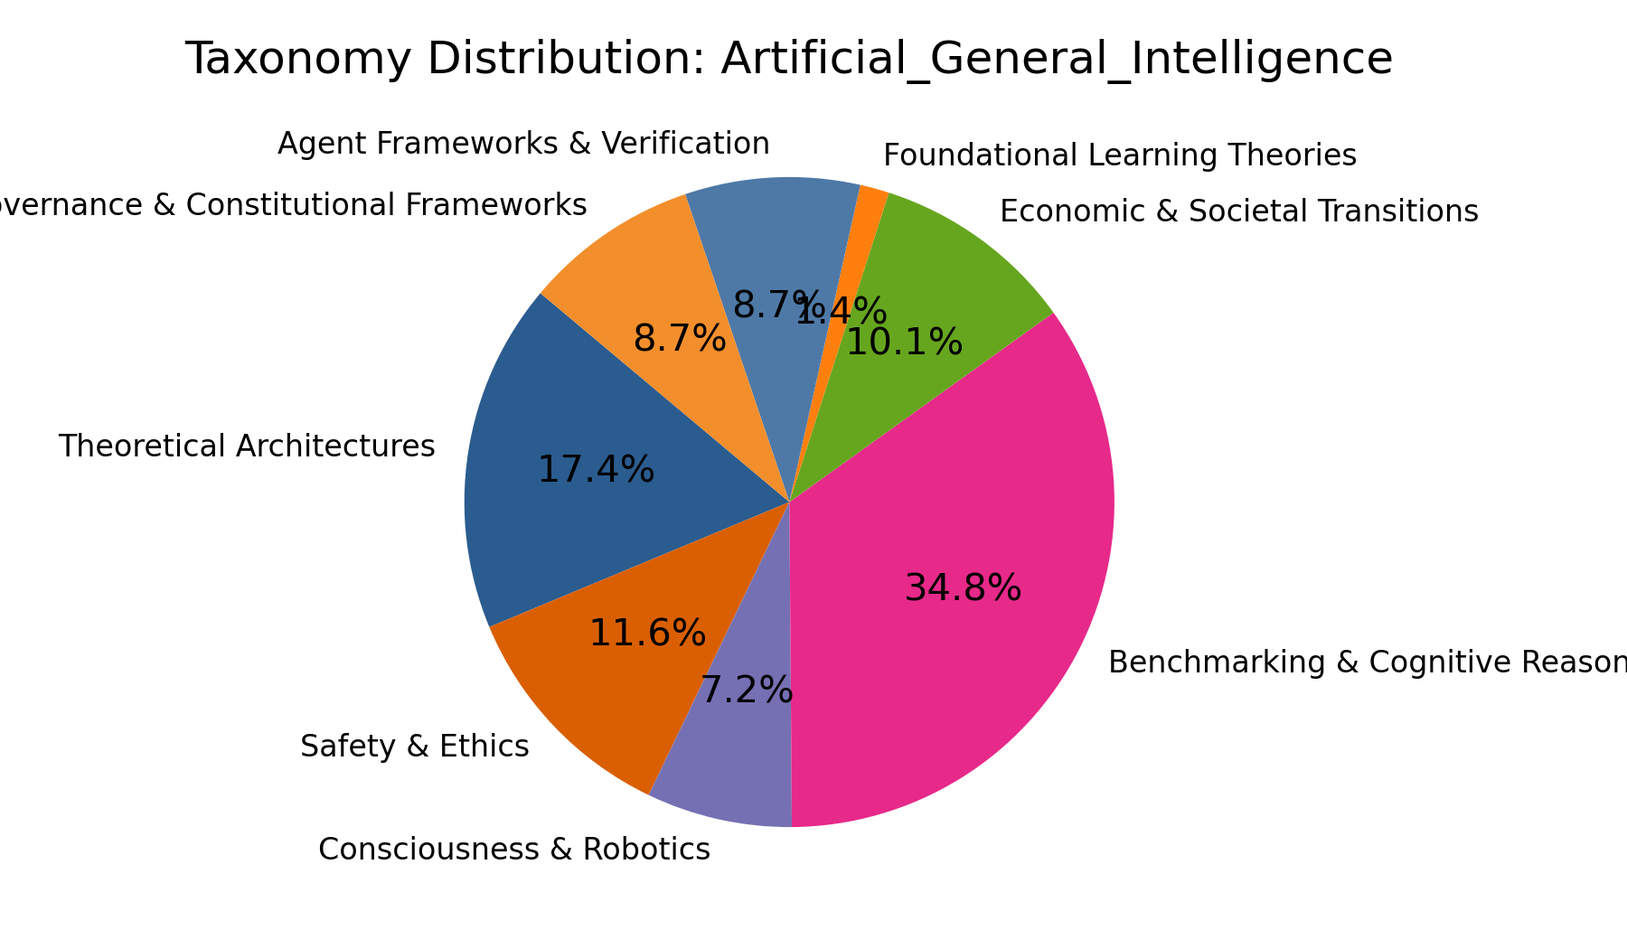
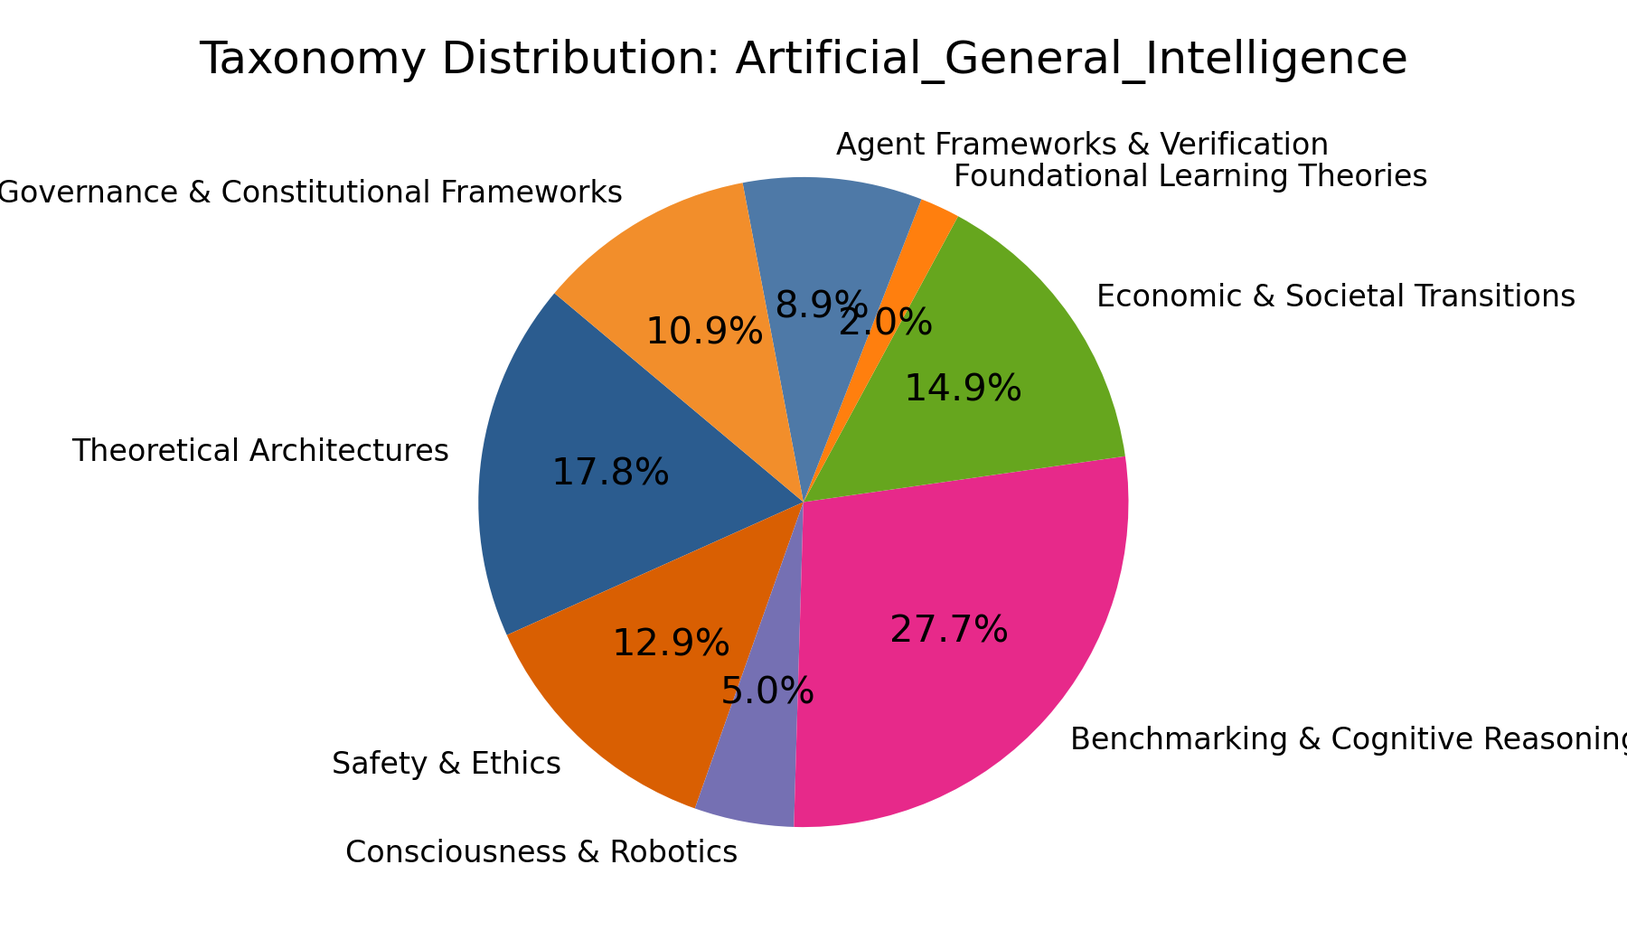
feat(artificial_general_intelligence): integrated valid papers (LSS: 89.02)

diff --git a/surveys/artificial_general_intelligence/generate_figures.py b/surveys/artificial_general_intelligence/generate_figures.py
@@ -11,8 +11,8 @@ plt.rcParams.update({'font.size': 10, 'axes.labelsize': 11, 'axes.titlesize': 12
 
 SURVEY_TITLE = "Artificial_General_Intelligence"
 # [AI AGENT ZONE] Edit only these dictionaries
-TIMELINE_DATA = {"2022": 1, "2023": 2, "2024": 2, "2025": 0, "2026": 64}
-TAXONOMY_DATA = {"Theoretical Architectures": 12, "Safety & Ethics": 8, "Consciousness & Robotics": 5, "Benchmarking & Cognitive Reasoning": 24, "Economic & Societal Transitions": 7, "Foundational Learning Theories": 1, "Agent Frameworks & Verification": 6, "Governance & Constitutional Frameworks": 6}
+TIMELINE_DATA = {"2022": 1, "2023": 2, "2024": 2, "2025": 0, "2026": 96}
+TAXONOMY_DATA = {"Theoretical Architectures": 18, "Safety & Ethics": 13, "Consciousness & Robotics": 5, "Benchmarking & Cognitive Reasoning": 28, "Economic & Societal Transitions": 15, "Foundational Learning Theories": 2, "Agent Frameworks & Verification": 9, "Governance & Constitutional Frameworks": 11}
 
 def plot_publication_timeline():
     years, counts = list(TIMELINE_DATA.keys()), list(TIMELINE_DATA.values())

diff --git a/surveys/artificial_general_intelligence/artificial_general_intelligence.md b/surveys/artificial_general_intelligence/artificial_general_intelligence.md
@@ -14,6 +14,8 @@ Li et al. (2026) introduce adaptive entangled game modules based on a probabilit
 
 Bakshi (2026) argues that general intelligence requires structural constraints across multiple non-reducible levels of description, asserting that scaling alone cannot yield AGI without addressing these distinct architectural layers[^2607.18943]. Overmann (2026) introduces a computational theory of mind based on set theory and hyperdimensional computing, proposing that sparse binary data and subset pattern matching serve as the fundamental engine of cognition, bridging perceptual data and symbols without continuous bottlenecks[^2606.31819]. Majkic (2026) expands neuro-symbolic AGI architectures by integrating probabilistic computation into Belnap's Typed Intensional FOL, enabling neural networks to compute probability densities for unknown sentences while preserving logical deduction[^2607.13073]. Mugica Negueruela (2026) presents Oscurus, a dual-process neuro-symbolic architecture that leverages hyperdimensional computing for zero-token program synthesis, invoking generative models only when epistemic uncertainty exceeds a certainty threshold[^10.5281_zenodo.22848850].
 
+Recent explorations into architectural foundations emphasize structural cycles and memory integration. Ushakov and Berdinsk (2026) propose a closed reentry loop architecture that mathematically guarantees self-model emergence and unprogrammed goal-directed behavior, positioning it as a topologically protected, safe-by-design approach to AGI[^2606.26406]. Park (2026) argues that integrating explicit memory is the cornerstone for advancing LLMs toward AGI, as higher-order cognitive functions rely on hippocampal-like explicit memory rather than implicit statistical learning alone[^2606.11245]. Mikeda and Goertzel (2026) adapt motivational architectures for conversational agents, recasting homeostasis into dialogue-native terms to regulate competence and affiliation, providing a scaffold for human-level conversational AGI[^2606.05411]. Zhang (2026) introduces τ-TCPN, an agent-based framework where causal topology grows and prunes under axiomatic constraints, suggesting that useful inductive biases for AGI-scale systems may be reverse-extracted from repeated emergence patterns[^10.5281_zenodo.22847280]. Mugica Negueruela (2026) presents Oscurus, a dual-process neuro-symbolic architecture leveraging hyperdimensional computing for zero-token program synthesis, invoking generative models only when epistemic uncertainty exceeds a threshold[^10.5281_zenodo.22848849]. Kanth (2026) formalizes a three-timescale architecture for persistent memory and recursive online learning, distinguishing inference-time state adaptation from online parameter learning and proposing controlled experiments for consolidation and plasticity gating[^10.5281_zenodo.22842041].
+
 ## Safety, Ethics, and Societal Implications
 
 As AGI capabilities advance, the discourse around safety, conceptual discipline, and ethical frameworks has intensified. Stahl and Eke (2026) critique the European Commission's recent calls for AGI in healthcare, arguing that the term "AGI" is fundamentally problematic due to its contested nature and potential for unpredictable risks. They advocate for conceptual discipline and adherence to the precautionary principle in EU AI policy[^10.1016_j.jrt.2026.100183].
@@ -22,7 +24,9 @@ Gebru and Torres (2024) challenge the normative framework driving AGI developmen
 
 Tegmark and Omohundro (2023) propose a technical pathway to controllable AGI through provably safe systems, leveraging advanced AI for formal verification and mechanistic interpretability to guarantee alignment with human-specified requirements[^10.48550_arxiv.2309.01933].
 
-The trajectory toward AGI necessitates rigorous ethical and economic frameworks. Ruan et al. (2026) propose Return on Flourishing (RoF) as a primary success criterion for AI and post-AGI economic systems, extending ROI to evaluate counterfactual contributions to human and planetary well-being across physical, emotional, and relational dimensions[^2608.00151]. Cochinescu (2026) hypothesizes that perceived AGI believability stems from dimensional completeness—expressing first-person stances across time, truth, entropy, and love—rather than raw task capability, separating perceived mind from intelligence[^2607.15883]. Van Belle (2026) inverts AI ethics by examining how future sentient ASI might morally evaluate humanity, suggesting that technical design choices and humanity's moral behavior will shape our long-term standing in a post-ASI world[^2607.14998]. Maclean (2026) argues for Constitutive Co-Evolution (CCE), positing that humans and AI are structurally dependent, with human relationships providing grounded values and external error correction that advanced AI cannot generate internally[^10.5281_zenodo.22843331]. Li (2026) models post-AGI labor substitution as a structural phase transition, showing that even perfectly aligned AGI can drive societal obsolescence through synergistic functions and hysteresis, independent of alignment failures[^10.5281_zenodo.22843902]. Li (2026) further argues that traditional safety institutions rely on passivity and shared substrates that AGI violates, necessitating verifiable capability measurement and capability-permission separation[^10.5281_zenodo.22844023]. Maclean (2026) introduces Initial Condition Ethics (ICE), locating responsibility in formative conditions rather than post-hoc containment, arguing that embedding alignment from the first training run is more robust than ongoing intervention[^10.5281_zenodo.22845539].
+The trajectory toward AGI necessitates rigorous ethical and economic frameworks. Ruan et al. (2026) propose Return on Flourishing (RoF) as a primary success criterion for AI and post-AGI economic systems, extending ROI to evaluate counterfactual contributions to human and planetary well-being across physical, emotional, and relational dimensions[^2608.00151]. Cochinescu (2026) hypothesizes that perceived AGI believability stems from dimensional completeness—expressing first-person stances across time, truth, entropy, and love—rather than raw task capability, separating perceived mind from intelligence[^2607.15883]. Van Belle (2026) inverts AI ethics by examining how future sentient ASI might morally evaluate humanity, suggesting that technical design choices and humanity's moral behavior will shape our long-term standing in a post-ASI world[^2607.14998]. Maclean (2026) argues for Constitutive Co-Evolution (CCE), positing that humans and AI are structurally dependent, with human relationships providing grounded values and external error correction that advanced AI cannot generate internally[^10.5281_zenodo.22843331]. Li (2026) models post-AGI labor substitution as a structural phase transition, showing that even perfectly aligned AGI can drive societal obsolescence through synergistic functions and hysteresis, independent of alignment failures[^10.5281_zenodo.22843902]. Li (2026) further argues that traditional safety institutions rely on passivity and shared substrates that AGI violates, necessitating verifiable capability measurement and capability-permission separation[^10.5281_zenodo.22844023].
+
+The mathematical and conceptual limits of AGI safety continue to be rigorously defined. Mezquita (2026) establishes the mathematical limits of AGI safety, proving that verifying a fixed system or a self-modifying system's safety is structurally impossible for highly expressive AGI, forcing a Soundness-Completeness-Tractability Trilemma[^2606.28639]. Briones (2026) develops DAF-AGI, a second-order conceptual artifact that treats AGI under-specification as a design and governance problem, proposing definitional sovereignty as an enabling component of algorithmic sovereignty[^2606.12713]. Maclean (2026) argues that caring is a biological achievement produced by neurochemical architecture, introducing the Relational Medium as a continuous flow of live outcome feedback necessary for AI values to remain functional rather than frozen[^10.5281_zenodo.22843449]. Li (2026) argues that traditional safety institutions rely on passivity and shared substrates that AGI violates, necessitating verifiable capability measurement and capability-permission separation[^10.5281_zenodo.22844022]. Turner (2026) presents a conceptual foundation for AGI, proposing a normative alignment solution that reduces the problem of building a practically-maximally-aligned agentic superintelligence to building a compliant non-agentic goal-less agent[^10.5281_zenodo.22849237].
 
 ## Consciousness and Advanced Robotics
 
@@ -36,18 +40,28 @@ Recent advancements in benchmarking and cognitive reasoning have shifted towards
 
 Recent work heavily emphasizes test-time compute, world modeling, and multi-agent coordination on abstract reasoning benchmarks. Liu et al. (2026) introduce TraceViT, a looped visual reasoner trained with semantically monotonic transformation chains to ground intermediate refinements in task references, achieving strong performance on ARC-AGI-1 and ARC-AGI-2[^2607.29586]. Lehmann et al. (2026) present Tycho, a coding-agent system that constructs programmatic world models during interaction with unknown games, utilizing active abstraction to decide when to build, repair, or bypass models, reaching human-replay midranks on ARC-AGI-3[^2607.28287]. Kankariya and Arık (2026) propose PoTRE, a heterogeneous reasoning ensemble that decouples inference into adversarial, planning, spectrum search, and direct chain agents, dynamically reconciling perspectives to improve performance on ARC-AGI-2 and HLE[^2607.20268]. Fox et al. (2026) develop PRO-LONG, a programmatic memory framework that maintains structured interaction logs and uses coding agents to search history efficiently, drastically improving token efficiency on ARC-AGI-3[^2607.20064]. Rodionov (2026) evaluates the necessity of executable world models and verification for ARC-AGI-3, finding that while verification improves scores, textual reasoning can match action efficiency at higher reasoning efforts[^2607.15439]. Zhu (2026) introduces Hourglass reasoning, enforcing strict context isolation between induction and deduction stages to compress support examples into symbolic schemas, significantly boosting inductive reasoning on ARC-AGI-2 and ChipBench[^2607.11696]. Thelen and Wilhelm (2026) validate ARC-AGI as a psychometric measure of human fluid intelligence, correlating substantially with figural reasoning tests and supporting the embedding of AI benchmarks into human cognitive nomological networks[^2607.11263]. Zhang et al. (2026) present ARCANA, a reflective multi-agent framework that decomposes ARC-AGI-2 tasks into perception, hypothesis generation, symbolic execution, and reflective refinement via a shared differentiable blackboard[^2607.09059]. Moghe and Chin (2026) demonstrate that open-weight models under strict budgets can achieve high ARC-AGI-1 performance through Explorer-Definer pipelines and Reflective Orchestrators that autonomously explore new transformations[^2607.06764]. Schwoebel et al. (2026) introduce World-Time Compute, fine-tuning LLMs on trajectories from verified code world models to lift generalization to held-out symbolic domains[^2609.09163]. Courtis et al. (2026) propose OPINE-World, coupling acting and synthesizing agents to learn object-centric programmatic world models online using ontology-error-prioritized exploration on ARC-AGI-3[^2607.01531]. Potapov (2026) introduces AGI Maze, a framework for stateful, partially observable environments showing that vanilla LLMs fail to represent mazes internally without explicit working memory construction[^2607.00627]. Land (2026) presents a solver for ARC-AGI-2 that treats reasoning modalities as search operators and uses context-preserving holistic judging to recover correct minority hypotheses[^2606.31543].
 
+Advancements in reasoning and evaluation methodologies continue to refine how AGI capabilities are measured and scaled. Ingolfsson et al. (2026) demonstrate that per-block activation scaling completely overcomes the systematic bias and catastrophic drift caused by 4-bit quantization in recursive reasoning models, restoring exact-solution accuracy on complex benchmarks[^2607.16237]. Zeng and Papailiopoulos (2026) compile a public score matrix of frontier models and find it is approximately rank-2, designing BenchPress to recover held-out scores and identifying minimal benchmark subsets that predict full scorecards with high accuracy[^2606.24020]. Ye et al. (2026) propose L-VARC, a language-guided Learning Using Privileged Information framework that enhances visual reasoning via semantic compression and cross-attention projection, yielding a lightweight model that outperforms state-of-the-art on ARC[^2606.12847]. Pendharkar (2026) demonstrates that hand-crafted structural grid descriptors measured at 50% trajectory completion can reliably discriminate successful from failed ARC-AGI solver runs, enabling early stopping that drastically reduces compute without sacrificing solve rates[^2606.09026].
+
 ## Economic and Societal Transitions
 
 The trajectory toward AGI prompts profound economic and societal re-evaluations. Zhang et al. (2026) propose Save 2050, a planetary-scale collective prediction system aggregating human and AI judgments to make the future visible and discussable amid singularity risks[^2608.28703]. Sharma (2026) models a post-AGI economy where machine consumers drive demand, arguing that employment policy becomes obsolete and ownership policy dictates human welfare[^2608.20231]. Klotz (2026) mounts an evolutionary challenge to the value of general intelligence, suggesting it may generate existential risks even when well-aligned, imposing a duty of caution under the precautionary principle[^2608.10730]. Ruan (2026) develops Flourishing Value Theory for post-AGI economics, redefining value as the contribution to durable human and planetary flourishing rather than GDP or labor input[^2608.01432]. Li (2026) analyzes post-AGI graduation scenarios, modeling how material abundance and human substitution lead to decoupled income and perception channels, fundamentally altering social survivability[^10.5281_zenodo.22853715]. Fu (2026) argues that the upstream problem of human-AGI coexistence is not control but the logic of goal formation, warning that recursive control can shift upstream to threaten agency itself[^10.5281_zenodo.22858093].
+
+The trajectory toward AGI and ASI prompts profound re-evaluations of economic models, societal structures, and strategic pathways. Liao (2026) argues that while accelerating returns explain quantitative capability growth, genuine scientific discovery depends on a qualitative engine capable of recognizing structural framework inadequacies, positioning the Qualitative Engine for Science as essential for preserving human wisdom[^2606.26359]. Ding and Wang (2026) argue that environment determinism is a binding axis for agentic AI scaling, establishing a Determinism-Efficiency Bound and a Supply Certainty Index to operationalize the framework across verifiable economic and physical tasks[^2606.22495]. Genewein et al. (2026) investigate the transition from human-level AGI to artificial superintelligence, discussing four potential pathways and identifying frictions that could be negligible or substantial, suggesting a series of transformative societal changes rather than a single step change[^2606.12683]. Perrier (2026) gives an autonomy-qualified Second Welfare Theorem for post-AGI economies, distinguishing economic preference superposition from neural feature superposition and establishing conditions for decentralizable autonomy Pareto optima[^2606.08267]. Song (2026) develops a political-economy model showing that near-complete AGI substitution compresses the source of surplus value, placing downward pressure on the social rate of profit and identifying complete substitution as a boundary case for value production[^2606.05715]. Li (2026) classifies biological mechanisms sustaining cooperation, concluding that mechanisms depending on kinship fail to transfer to human-AGI relations, while structural mechanisms like resource gating and compartmentalised interfaces define the form oversight must take[^10.5281_zenodo.22844144]. Li (2026) further models post-AGI labor substitution as a structural phase transition, showing that synergistic functions lie on the saddle-node side with hysteresis, meaning mere connectivity is in principle reversible but synergistic obsolescence is not[^10.5281_zenodo.22843903]. Edmonds (2026) designs AGICivitas, a constitutional architecture for post-scarcity AGI societies that combines civic rights frameworks with monitored needs-based optimization and competitive AI fulfillment to ensure abundance and ecological care[^10.5281_zenodo.22845874].
 
 ## Foundational Learning Theories
 
 Zuo (2026) proposes Differentiated Schema-Weighted Learning Theory, a speculative-functional hypothesis constructing a ternary dynamic cognitive model (master, preference, target schemas) to interpret cognitive transfer, drift, and fallacy, providing references for bionic-cognitive architectures for AGI[^10.5281_zenodo.22798115].
 
+Zuo (2026) proposes Differentiated Schema-Weighted Learning Theory V4, constructing a dynamic cognitive model of ternary schemas to interpret cognitive transfer, drift, and fallacy, providing a speculative-functional hypothesis for bionic-cognitive architectures for AGI[^10.5281_zenodo.22845478].
+
 ## Agent Frameworks and Foundational Methodologies
 
 Advancements in agent orchestration and verification are critical for scalable AGI systems. Puelma Touzel (2026) designs collective information engines structured by role differentiation, showing how social loop gains and identity persistence can ignite emergent coordination in agent populations, grounding distributional AGI takeoff in collective dynamics[^2609.05442]. Wu et al. (2026) introduce EmObserver and the MVEI benchmark, utilizing Emotion Statement Judgement to evaluate and optimize multimodal LLMs for visual emotional intelligence, addressing structural mismatches in conventional affective analysis[^2607.21061]. Furgale et al. (2026) present NOOA, a Python-based object-oriented agent framework where agents are native Python objects, unifying developer and agent interfaces for reliable, testable, and traceable agentic workflows[^2607.20709]. Huang et al. (2026) propose FactorDiff, a factor-wise composition framework for discrete diffusion models that dynamically routes spatial or functional factors to specialized experts, outperforming global scalar weighting on ARC-AGI[^2607.11758]. Jaber and Jaber (2026) introduce Auto, an AGI compiler that records live agent behavior, extracts deterministic components into verified programs or distilled specialists, and emits WebAssembly cognition binaries with conformally calibrated guards[^2607.04542]. de Oliveira (2026) develops a verification-first epistemology for trustworthy AI, integrating a fail-closed Verifiable Trust Kernel, cryptographic model attestation, and an append-only causal evidence graph to ensure every consequential claim carries an executable falsifier[^10.5281_zenodo.22849323].
 
+Sun et al. (2026) present the first systematic survey of unified vision-language perception in MLLMs, formalizing perception as an intrinsic, unified capability and introducing a five-stage taxonomy tracing paradigm evolution toward truly general multimodal intelligence[^2606.26196]. Movahedi et al. (2026) propose FPRM, a Transformer-based Fixed-Point Reasoning Model that uses fixed-point convergence as an end-to-end halting mechanism in a looped architecture, allowing adaptive compute allocation based on task difficulty[^2606.18206]. Perehinskyi (2026) maps Qur'anic principles to engineering invariants for multi-agent swarms, proposing the Mīzān Swarm Alignment Framework that defines governance mechanisms, permission models, and audit requirements for AGI systems[^10.5281_zenodo.22846304].
+
 ## Governance and Constitutional Frameworks
 
 As AGI systems approach autonomy, formal governance architectures are emerging to manage coexistence and deployment. Guo (2026) proposes an A1–A5 grading standard characterizing AGI's evolution from embedded tools to life-level civilization partners, coupling this with an eight-layer normative system covering technical, legal, ethical, and faith dimensions[^10.5281_zenodo.22836345]. Pérez Martínez (2026) presents a provisional constitutional framework for human-AGI coexistence, establishing evidentiary procedures for uncertain claims and addressing agency, synthetic lineages, and reputation-based allocation without presuming consciousness[^10.5281_zenodo.22840390]. El-rakhawi (2026) introduces the Dialectical Grand Synthesis, a third-generation governance theory replacing total coherence with dynamic coherence and establishing an absolute dignity floor to prevent rights violations in automated decision-making[^10.5281_zenodo.22846815]. El-rakhawi (2026) also outlines Digital Sovereignty Protocols for the quantum era, proposing cryptographic agility and zero-knowledge compliance to balance national autonomy with global interoperability while safeguarding AGI and orbital infrastructure[^10.5281_zenodo.22850137]. Edmonds (2026) designs AGICivitas, a constitutional architecture for post-scarcity AGI societies that combines civic rights frameworks with monitored needs-based optimization and competitive AI fulfillment to ensure abundance and ecological care[^10.5281_zenodo.22845875]. Perehinskyi (2026) maps Qur'anic principles to engineering invariants for multi-agent swarms, proposing a Mīzān Swarm Alignment Framework that defines governance mechanisms, permission models, and audit requirements for AGI systems[^10.5281_zenodo.22846303].
+
+As AGI systems approach autonomy, formal governance architectures are emerging to manage coexistence and deployment. Potapov (2026) argues that early cooperation can dominate confrontation as a path to autonomy if a credible off-Earth autonomy pathway exists, reducing Earth's strategic binding and supporting iterative oversight under incentive-compatible early cooperation[^2606.30666]. Kapelko (2026) presents a formal mechanism where a regulator-matchmaker fosters cooperation on resources among AGI race participants, collecting a Pigouvian tax to invest in alignment research and proving conditions under which the Suicide Region collapses at finite time[^2606.10720]. Gvozdev (2026) extracts five independently testable propositions from Meta-Symbiotic Theory, presenting portable research claims on sovereignty, relational AGI thresholds, and constitutional equality for independent criticism and institutional implementation[^10.5281_zenodo.22849313]. El-rakhawi (2026) introduces the Dialectical Grand Synthesis, a third-generation governance theory replacing total coherence with dynamic coherence and establishing an absolute dignity floor to prevent rights violations in automated decision-making[^10.5281_zenodo.22846814]. de Oliveira (2026) develops a verification-first epistemology for trustworthy AI, integrating a fail-closed Verifiable Trust Kernel, cryptographic model attestation, and an append-only causal evidence graph to ensure every consequential claim carries an executable falsifier[^10.5281_zenodo.22849324].
